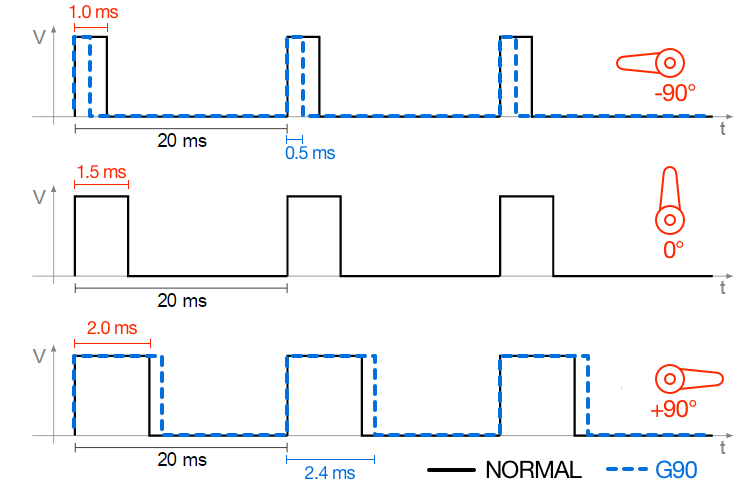
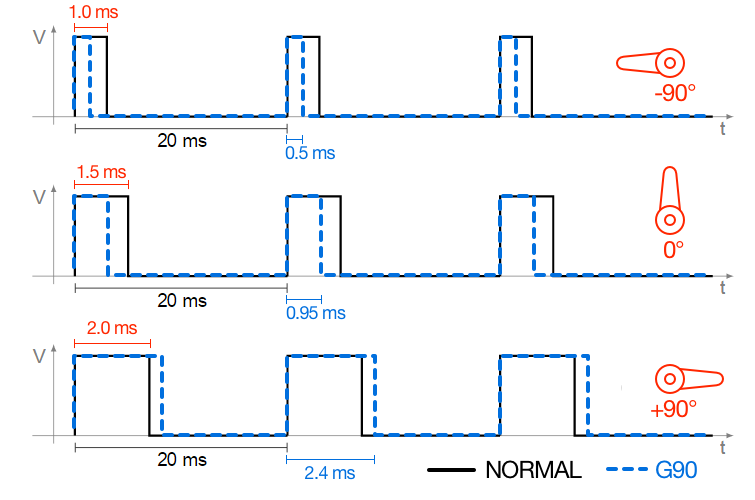
Últimos retoques y renombrado de index a presentacion

diff --git a/index.html b/index.html
@@ -1,106 +1,137 @@
 <!doctype html>
 <html>
 <head>
-    <meta charset="utf-8">
-    <meta name="viewport" content="width=device-width, initial-scale=1.0, maximum-scale=1.0, user-scalable=no">
+	<meta charset="utf-8">
+	<meta name="viewport" content="width=device-width, initial-scale=1.0, maximum-scale=1.0, user-scalable=no">
 
-    <title>Controlando el mundo f&iacute;sico con Python y RaspberryPi - Taller PyDay Galicia, 10 junio 2017</title>
+	<title>Controlando el mundo f&iacute;sico con Python y RaspberryPi - Taller PyDay Galicia, 10 junio 2017</title>
 
-    <link rel="stylesheet" href="css/reveal.css">
-    <link rel="stylesheet" href="css/theme/white.css">
-    <link rel="stylesheet" href="css/override.css">
+	<link rel="stylesheet" href="css/reveal.css">
+	<link rel="stylesheet" href="css/theme/white.css">
+	<link rel="stylesheet" href="css/override.css">
 
-    <!-- Theme used for syntax highlighting of code -->
-    <link rel="stylesheet" href="lib/css/github.css">
+	<!-- Theme used for syntax highlighting of code -->
+	<link rel="stylesheet" href="lib/css/railscasts.css">
 
-    <!-- Printing and PDF exports -->
-    <script>
-        var link = document.createElement('link');
-        link.rel = 'stylesheet';
-        link.type = 'text/css';
-        link.href = window.location.search.match(/print-pdf/gi) ? 'css/print/pdf.css' : 'css/print/paper.css';
-        document.getElementsByTagName('head')[0].appendChild(link);
-    </script>
+	<!-- Printing and PDF exports -->
+	<script>
+		var link = document.createElement('link');
+		link.rel = 'stylesheet';
+		link.type = 'text/css';
+		link.href = window.location.search.match(/print-pdf/gi) ? 'css/print/pdf.css' : 'css/print/paper.css';
+		document.getElementsByTagName('head')[0].appendChild(link);
+	</script>
 </head>
 <body>
 
 <div class="logo-footer">
-    <img style="width: 50%" src="resources/logo-pygalicia.png">
+	<img src="resources/logo-pygalicia.png">
 </div>
 <div class="reveal">
 
-    <div class="slides">
-        <section data-background="resources/Cherry-Blossom-Festival-website.png"
-                 class="background">
-            <h1>Taller de Python con Raspberry PI</h1>
-            <h3>CON</h3>
-            <p><small><a href="https://twitter.com/mgesteiro">@mgesteiro</a> / <a href="https://twitter.com/felixgomezlopez">@felixgomezlopez</a></small></p>
-        </section>
+	<div class="slides">
+		<section class="background">
+			<h1>
+				Controlando el mundo f&iacute;sico<br />
+				con Python y RaspberryPi
+			</h1>
+			<h2>- Taller PyDay Galicia, 10 junio 2017 -</h2>
+			<br /><span style="color:blue;">Servo</span></h1>
+		</section>
 
-        <section>
-            <section data-background="resources/pi_angled.jpg" class="background">
-                <h1>Empezando</h1>
-            </section>
+		<section class="background">
+			<section>
+				<h1>Circuito con Servo</h1>
+				<img class="esquema" src="resources/PServo/00-Servo-RPi_bb.png" />
+			</section>
+			<section>
+				<h1>código python</h1>
+				<pre><code class="python">
+#!/usr/bin/env python3
 
-            <section>
-                <img src="resources/modelos.png" alt="Modelos">
-            </section>
+from gpiozero import Servo
+from time import sleep
 
-            <section>
-                <h1>Diferenciase entre la 2 y la 3</h1>
-            </section>
+miservo = Servo(17)
 
-        </section>
+while True:
+	miservo.min() # ó miservo.value = -1
+	sleep(1)
+	miservo.mid() # ó miservo.value = 0
+	sleep(1)
+	miservo.max() # ó miservo.value = +1
+	sleep(1)
+				</code></pre>
+			</section>
+		</section>
 
-        <section>
-            <img src="resources/rbp_parts.jpg" alt="">
-        </section>
+		<section>
+			<section>
+				<h1>Cómo se posiciona un Servo</h1>
+				<img class="esquema" src="resources/PServo/01-Servo-PWM-normal.png" />
+				<p>Configuración estándar de un Servo en <i>RPi gpiozero</i></p>
+			</section>
+			<section>
+				<h1>El Servo G90: 500-2400 µs</h1>
+				<img class="esquema" src="resources/PServo/01-Servo-PWM-G90.png" /><br />
+				<a href="https://servodatabase.com/servo/towerpro/sg90" target="_blank">&rArr; Especificaciones G90</a>
+			</section>
+			<section>
+				<h1>código python</h1>
+				<pre><code class="python">
+#!/usr/bin/env python3
 
-        <section>
-            <img src="resources/plug-in.gif" alt="">
-        </section>
+from gpiozero import Servo
+from time import sleep
 
-        <section>
-            <h1>Sistemas operativos</h1>
-            <pre class="python"><code data-trim>
-from gpiozero import LED
+miservo = Servo(17,
+	min_pulse_width =   500/1000000, # =   500 µs =  0.5 ms
+	max_pulse_width =  2400/1000000, # =  2400 µs =  2.4 ms
+	frame_width     = 20000/1000000  # = 20000 µs = 20.0 ms
+)
 
-led = LED(17)
-led.on()
-            </code></pre>
-        </section>
+while True:
+	miservo.value = -1 # ó miservo.min()
+	sleep(1)
+	miservo.value = +1 # ó miservo.max()
+	sleep(1)
+				</code></pre>
+			</section>
+		</section>
 
-        <section>
-            <h1>Usos típicos</h1>
-        </section>
 
-        <section>
-            <h1>Hands on</h1>
-        </section>
+		<section class="background">
+			<h1>¿Qué hemos aprendido?</h1>
+			<ul>
+				<li>Servos</li>
+				<li>Señales de control</li>
+				<li>Python - gpiozero</li>
+			</ul>
+		</section>
 
-    </div>
+	</div>
 </div>
 
 <script src="lib/js/head.min.js"></script>
 <script src="js/reveal.js"></script>
 
 <script>
-    // More info about config & dependencies:
-    // - https://github.com/hakimel/reveal.js#configuration
-    // - https://github.com/hakimel/reveal.js#dependencies
-    Reveal.initialize({
-        progress: true,
-        dependencies: [
-            {src: 'plugin/markdown/marked.js'},
-            {src: 'plugin/markdown/markdown.js'},
-            {src: 'plugin/notes/notes.js', async: true},
-            {
-                src: 'plugin/highlight/highlight.js', async: true, callback: function () {
-                hljs.initHighlightingOnLoad();
-            }
-            }
-        ]
-    });
+	// More info about config & dependencies:
+	// - https://github.com/hakimel/reveal.js#configuration
+	// - https://github.com/hakimel/reveal.js#dependencies
+	Reveal.initialize({
+		progress: true,
+		dependencies: [
+			{src: 'plugin/markdown/marked.js'},
+			{src: 'plugin/markdown/markdown.js'},
+			{src: 'plugin/notes/notes.js', async: true},
+			{
+				src: 'plugin/highlight/highlight.js', async: true, callback: function () {
+				hljs.initHighlightingOnLoad();
+			}
+			}
+		]
+	});
 </script>
 </body>
 </html>

diff --git a/presentacion.html b/presentacion.html
@@ -1,0 +1,106 @@
+<!doctype html>
+<html>
+<head>
+    <meta charset="utf-8">
+    <meta name="viewport" content="width=device-width, initial-scale=1.0, maximum-scale=1.0, user-scalable=no">
+
+    <title>Controlando el mundo f&iacute;sico con Python y RaspberryPi - Taller PyDay Galicia, 10 junio 2017</title>
+
+    <link rel="stylesheet" href="css/reveal.css">
+    <link rel="stylesheet" href="css/theme/white.css">
+    <link rel="stylesheet" href="css/override.css">
+
+    <!-- Theme used for syntax highlighting of code -->
+    <link rel="stylesheet" href="lib/css/github.css">
+
+    <!-- Printing and PDF exports -->
+    <script>
+        var link = document.createElement('link');
+        link.rel = 'stylesheet';
+        link.type = 'text/css';
+        link.href = window.location.search.match(/print-pdf/gi) ? 'css/print/pdf.css' : 'css/print/paper.css';
+        document.getElementsByTagName('head')[0].appendChild(link);
+    </script>
+</head>
+<body>
+
+<div class="logo-footer">
+    <img style="width: 50%" src="resources/logo-pygalicia.png">
+</div>
+<div class="reveal">
+
+    <div class="slides">
+        <section data-background="resources/Cherry-Blossom-Festival-website.png"
+                 class="background">
+            <h1>Taller de Python con Raspberry PI</h1>
+            <h3>CON</h3>
+            <p><small><a href="https://twitter.com/mgesteiro">@mgesteiro</a> / <a href="https://twitter.com/felixgomezlopez">@felixgomezlopez</a></small></p>
+        </section>
+
+        <section>
+            <section data-background="resources/pi_angled.jpg" class="background">
+                <h1>Empezando</h1>
+            </section>
+
+            <section>
+                <img src="resources/modelos.png" alt="Modelos">
+            </section>
+
+            <section>
+                <h1>Diferenciase entre la 2 y la 3</h1>
+            </section>
+
+        </section>
+
+        <section>
+            <img src="resources/rbp_parts.jpg" alt="">
+        </section>
+
+        <section>
+            <img src="resources/plug-in.gif" alt="">
+        </section>
+
+        <section>
+            <h1>Sistemas operativos</h1>
+            <pre class="python"><code data-trim>
+from gpiozero import LED
+
+led = LED(17)
+led.on()
+            </code></pre>
+        </section>
+
+        <section>
+            <h1>Usos típicos</h1>
+        </section>
+
+        <section>
+            <h1>Hands on</h1>
+        </section>
+
+    </div>
+</div>
+
+<script src="lib/js/head.min.js"></script>
+<script src="js/reveal.js"></script>
+
+<script>
+    // More info about config & dependencies:
+    // - https://github.com/hakimel/reveal.js#configuration
+    // - https://github.com/hakimel/reveal.js#dependencies
+    Reveal.initialize({
+        progress: true,
+        dependencies: [
+            {src: 'plugin/markdown/marked.js'},
+            {src: 'plugin/markdown/markdown.js'},
+            {src: 'plugin/notes/notes.js', async: true},
+            {
+                src: 'plugin/highlight/highlight.js', async: true, callback: function () {
+                hljs.initHighlightingOnLoad();
+            }
+            }
+        ]
+    });
+</script>
+</body>
+</html>

diff --git a/PServo.html b/PServo.html
@@ -31,7 +31,7 @@
 
 	<div class="slides">
 		<section class="background">
-			<h1>Práctica con <span style="color:blue;">Servo</span></h1>
+			<h1>Práctica con<br /><span style="color:blue;">Servo</span></h1>
 		</section>
 
 		<section class="background">
@@ -52,6 +52,8 @@ miservo = Servo(17)
 while True:
 	miservo.min() # ó miservo.value = -1
 	sleep(1)
+	miservo.mid() # ó miservo.value = 0
+	sleep(1)
 	miservo.max() # ó miservo.value = +1
 	sleep(1)
 				</code></pre>
@@ -62,6 +64,7 @@ while True:
 			<section>
 				<h1>Cómo se posiciona un Servo</h1>
 				<img class="esquema" src="resources/PServo/01-Servo-PWM-normal.png" />
+				<p>Configuración estándar de un Servo en <i>RPi gpiozero</i></p>
 			</section>
 			<section>
 				<h1>El Servo G90: 500-2400 µs</h1>
@@ -95,9 +98,8 @@ while True:
 		<section class="background">
 			<h1>¿Qué hemos aprendido?</h1>
 			<ul>
-				<li>Electricidad básica</li>
-				<li>Prototipado</li>
-				<li>GPIO de la Raspberry-Pi</li>
+				<li>Servos</li>
+				<li>Señales de control</li>
 				<li>Python - gpiozero</li>
 			</ul>
 		</section>
